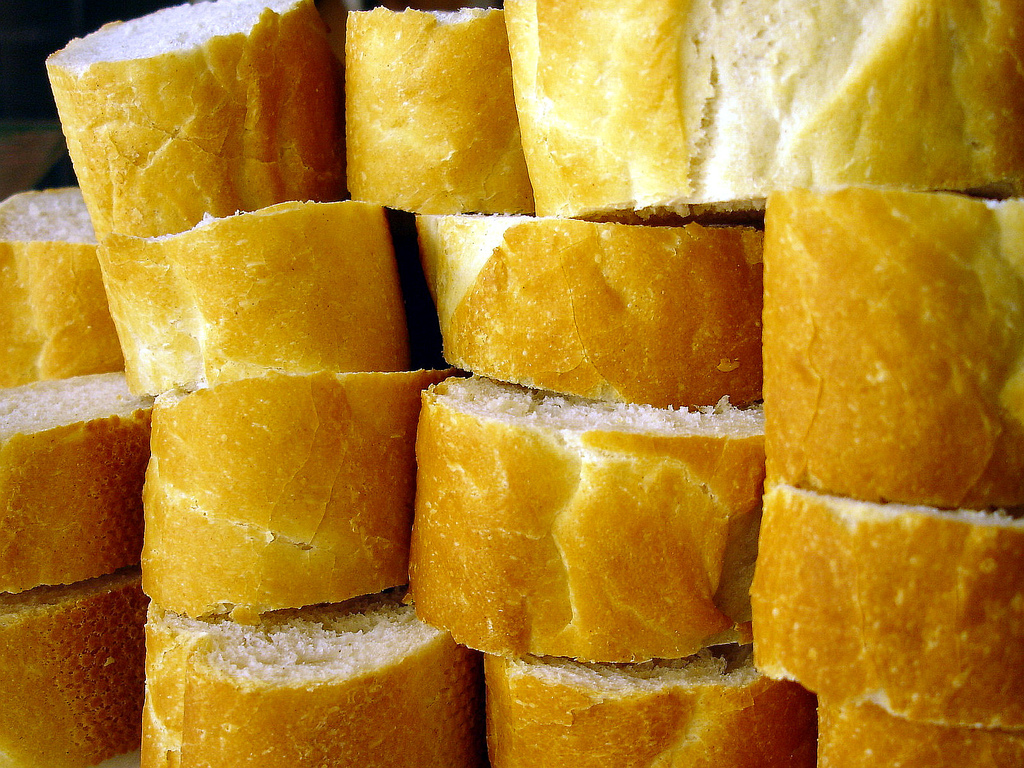
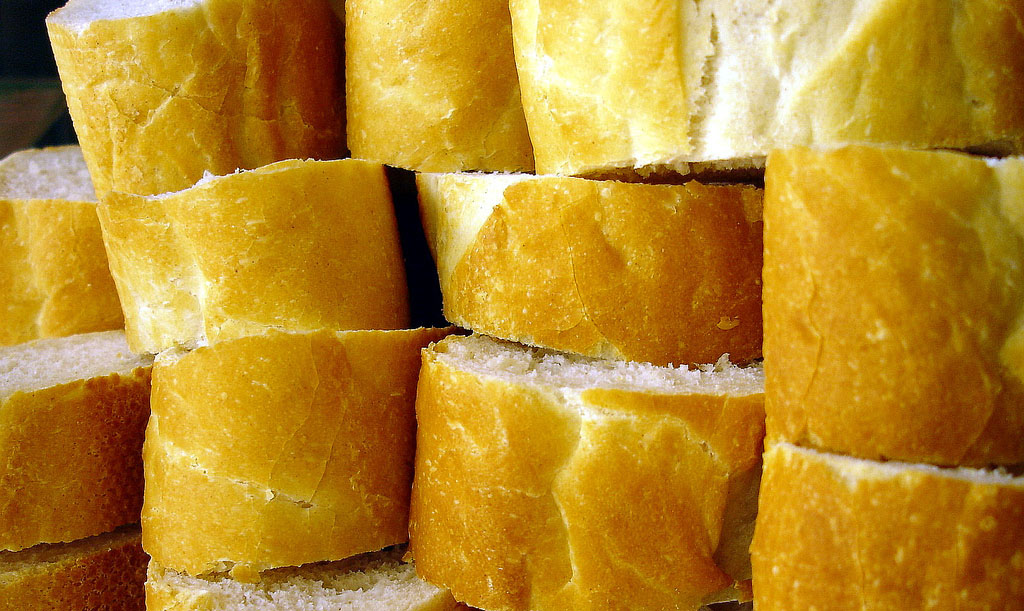
Design is pretty much finished.

diff --git a/javascript/components/HomeHeader.js b/javascript/components/HomeHeader.js
@@ -2,13 +2,14 @@ dojo.require('toura.components.HeaderImage');
 dojo.provide('client.components.HomeHeader');
 
 // we are doing this as a "core" component to allow inheritance
-// that means it is loaded in as though it's a core component, rather
-// than as a custom component
-dojo.declare('toura.components.HomeHeader', [ toura.components.HeaderImage ], {
+dojo.declare('client.components.HomeHeader', [ toura.components.HeaderImage ], {
+  templateString: dojo.cache('client.components', 'HomeHeader/HomeHeader.haml'),
   "class": 'home-header',
   
   prepareData: function() {
     this.inherited(arguments);
+    
+    this.title = this.node ? this.node.name : this.title;
     
     if (this.viewImage) {
       dojo.mixin(this.viewImage, this._calculateDimensions());
@@ -28,7 +29,12 @@ dojo.declare('toura.components.HomeHeader', [ toura.components.HeaderImage ], {
         imgheight = $node.height(),
         voffset = img ? imgheight - h/2 : 0;
     
+    // voffset should always be positive
+    if(voffset < 0) { voffset = 0; }
     $node.css('margin-top', -voffset);
+    
+    // also fire /content/update to be sure scrollers all still work
+    dojo.publish('/content/update', [{}]);
   },
   
   _resizeImage: function() {
@@ -36,6 +42,10 @@ dojo.declare('toura.components.HomeHeader', [ toura.components.HeaderImage ], {
     this._offsetImage();
   },
     
+  _getWidth: function() {
+    return toura.app.UI.viewport.width;
+  },
+
   _getHeight: function() {
     return toura.app.UI.viewport.height;
   }

diff --git a/themes/default/custom.scss b/themes/default/custom.scss
@@ -34,10 +34,8 @@ $headerbg: rgba(0,0,0,.8);
   }
 }
 
-.component.page-nav {
-  .top {
-    background: #333;
-  }
+.component.page-nav .top, .component.app-nav {
+  background: #333;
 }
 
 .component.page-header-image {
@@ -56,6 +54,23 @@ $headerbg: rgba(0,0,0,.8);
     left: 0;
     color: white;
   }
+}
+
+.component.home-header {
+  h1 {
+    position: absolute;
+    z-index: 40;
+    background-color: $headerbg;
+    color: white;
+    padding: 10px;
+    right: 0;
+    bottom: 25%;
+    font: {
+      family: $headers;
+      weight: normal;
+    };
+  }
+  
 }
 
 ol.component.preparation-list {
@@ -100,6 +115,12 @@ ol.component.preparation-list {
 }
 
 .tablet {
+  .component.home-header {
+    h1 {
+      font-size: 30px;
+    }
+  }
+  
   .component.child-node-grid {
     // need the size-large/size-medium to be sure we get sufficient priority in the cascade
     &.size-large li, &.size-medium li {
@@ -124,9 +145,15 @@ ol.component.preparation-list {
     }
   }
   
-  .home-nav-columns {
-    margin: 10px;
+  .component.app-nav {
+    width: auto;
+    margin: 0;
+    -webkit-border-radius: 0;
+    li, li a {
+      height: 25px;
+    }
   }
+  
   
   .main-body-text .component.body-text {
     padding: 10px;

diff --git a/javascript/base.js b/javascript/base.js
@@ -3,3 +3,4 @@ dojo.require('client.components.ImageHeader');
 dojo.require('client.components.IngredientsList');
 dojo.require('client.components.PreparationList');
 dojo.require('client.components.HomeHeader');
+dojo.require('client.components.AppNav');

diff --git a/pages/home.md b/pages/home.md
@@ -1,9 +1,7 @@
 ---
-title: Home
+title: Foods of the World
 template:
   phone: home_grid_phone
   tablet: home_grid_tablet
-header_image: bread_pile_header.jpg
+header_image: bread_pile.jpg
 ---
-
-Food is delicious.
